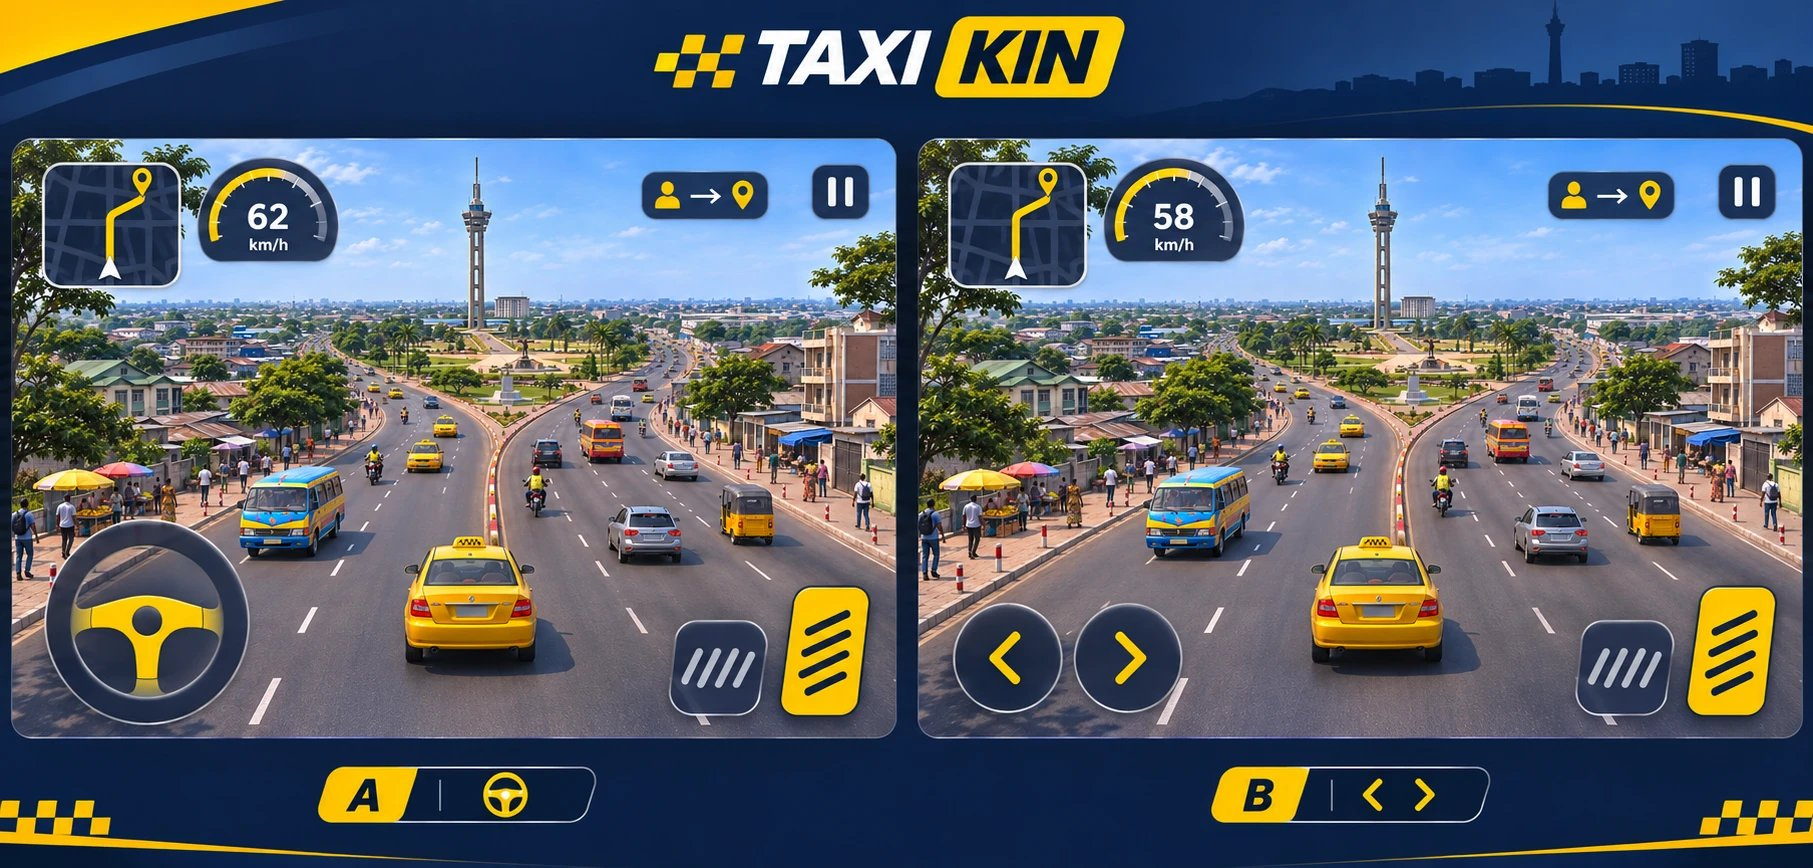
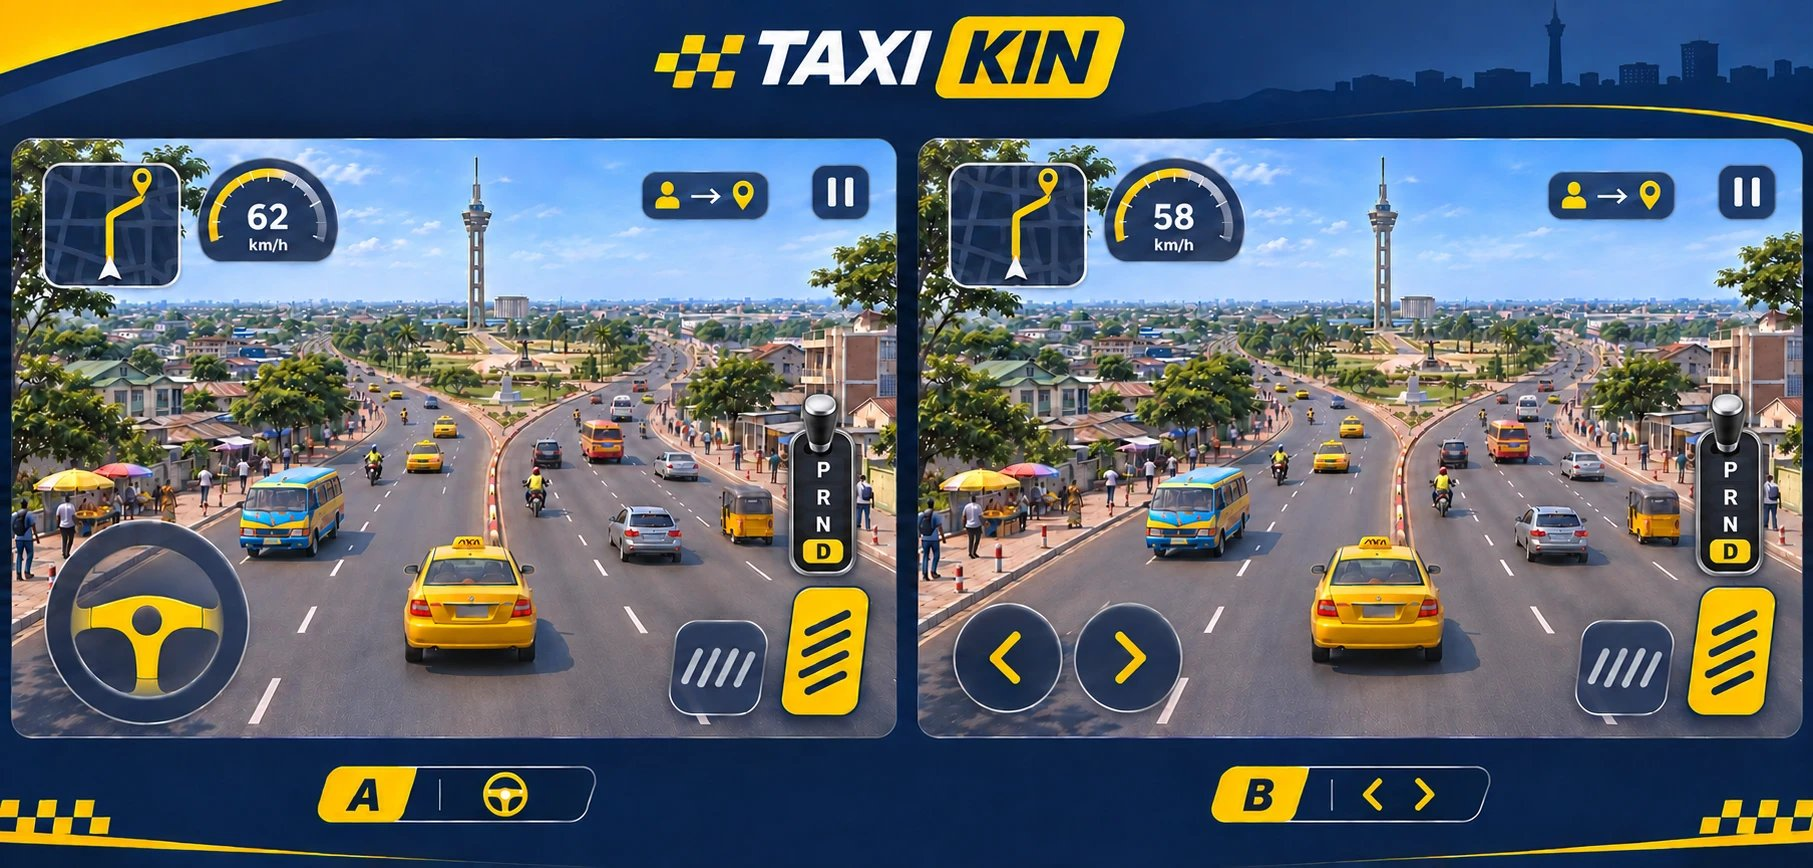
Levier de vitesses vertical P R N D avec vitesse engagée en surbrillance, mode Parking (freinage maximal), maquette d'interface mise à jour
Claude-Session: https://claude.ai/code/session_01JuujBrtNH3b235hzuEdNg4

diff --git a/UnityProject/Assets/Editor/TaxiKinUIBuilder.cs b/UnityProject/Assets/Editor/TaxiKinUIBuilder.cs
@@ -118,16 +118,21 @@ namespace TaxiKin.EditorTools
             layout.Register(ControlId.Camera, (RectTransform)cam.transform);
             On(cam, actions.NextCamera);
 
-            // Boîte de vitesses D / N / R (trois boutons dans un conteneur)
-            var gearGo = new GameObject("Vitesses", typeof(RectTransform));
+            // Levier de vitesses vertical P / R / N / D (comme la maquette), à gauche du frein
+            var gearGo = new GameObject("Vitesses", typeof(RectTransform), typeof(GearIndicator));
             gearGo.transform.SetParent(root, false);
-            Place((RectTransform)gearGo.transform, BR, new Vector2(-40f, 420f), new Vector2(220f, 80f), BR);
-            string[] g = { "D", "N", "R" };
-            for (int i = 0; i < 3; i++)
+            Place((RectTransform)gearGo.transform, BR, new Vector2(-550f, 40f), new Vector2(100f, 300f), BR);
+            string[] g = { "D", "N", "R", "P" };                     // indice = valeur de GearPosition
+            float[] gy = { 0f, 75f, 150f, 225f };                    // D en bas, P en haut
+            var gearLabels = new Text[4];
+            for (int i = 0; i < 4; i++)
             {
-                var gb = Button(gearGo.transform, "Gear" + g[i], null, g[i], BL, new Vector2(i * 75f, 0f), new Vector2(70f, 80f), Btn);
+                var gb = Button(gearGo.transform, "Gear" + g[i], null, g[i], BL, new Vector2(0f, gy[i]), new Vector2(100f, 70f), new Color(0.1f, 0.12f, 0.2f, 0.85f));
                 UnityEventTools.AddIntPersistentListener(gb.onPressed, actions.SetGear, i);
+                gearLabels[i] = gb.GetComponentInChildren<Text>();
             }
+            TaxiKinSceneBuilder.Assign(gearGo.GetComponent<GearIndicator>(), "player", player);
+            TaxiKinSceneBuilder.AssignArray(gearGo.GetComponent<GearIndicator>(), "labels", gearLabels);
             layout.Register(ControlId.Gear, (RectTransform)gearGo.transform);
 
             // Passagers (Wewa : un bouton ; taxi : client ; bus : passagers, portes, arrêt)

diff --git a/UnityProject/Assets/Scripts/Vehicles/VehicleController.cs b/UnityProject/Assets/Scripts/Vehicles/VehicleController.cs
@@ -8,7 +8,7 @@ namespace TaxiKin.Vehicles
     public enum VehicleType { Wewa, Taxi, Bus207 }
 
     /// <summary>Boîte de vitesses : D = marche avant, N = neutre, R = marche arrière.</summary>
-    public enum GearPosition { D, N, R }
+    public enum GearPosition { D, N, R, P }   // P = parking : pas d'accélération, freinage maximal
 
     /// <summary>Caractéristiques d'un véhicule (modifiables dans l'Inspector).</summary>
     [Serializable]
@@ -145,7 +145,7 @@ namespace TaxiKin.Vehicles
             float maxMs = stats.maxSpeedKmh / 3.6f;
             // Route mouillée : adhérence 1,0 (sec) → 0,6 (pluie forte)
             float road = WeatherManager.Instance != null ? WeatherManager.Instance.RoadGrip : 1f;
-            bool driving = Gear != GearPosition.N && Throttle > 0f && Fuel > 0f;
+            bool driving = Gear != GearPosition.N && Gear != GearPosition.P && Throttle > 0f && Fuel > 0f;
 
             if (driving)
             {
@@ -157,7 +157,7 @@ namespace TaxiKin.Vehicles
                 forward = Mathf.MoveTowards(forward, 0f, 1.5f * dt);   // Roue libre
             }
 
-            float brakeAmount = HandBrake ? 1f : Brake;
+            float brakeAmount = (HandBrake || Gear == GearPosition.P) ? 1f : Brake;
             if (brakeAmount > 0f)
                 forward = Mathf.MoveTowards(forward, 0f, brakeAmount * stats.brakeForce * road * dt);     // freinage plus long
 

diff --git a/UnityProject/Assets/Scripts/UI/GearIndicator.cs b/UnityProject/Assets/Scripts/UI/GearIndicator.cs
@@ -1,0 +1,29 @@
+using UnityEngine;
+using UnityEngine.UI;
+using TaxiKin.Player;
+using TaxiKin.Vehicles;
+
+namespace TaxiKin.UI
+{
+    /// <summary>Met en évidence (jaune, plus grand) la vitesse engagée sur le levier P R N D.</summary>
+    public class GearIndicator : MonoBehaviour
+    {
+        [SerializeField] private PlayerController player;
+        [SerializeField] private Text[] labels;     // indexés par GearPosition : D, N, R, P
+
+        private static readonly Color Active = new Color(1f, 0.83f, 0f);
+
+        private void Update()
+        {
+            if (player == null || player.Vehicle == null || labels == null) return;
+            int gear = (int)player.Vehicle.Gear;
+            for (int i = 0; i < labels.Length; i++)
+            {
+                if (labels[i] == null) continue;
+                bool on = i == gear;
+                labels[i].color = on ? Active : Color.white;
+                labels[i].fontStyle = on ? FontStyle.Bold : FontStyle.Normal;
+            }
+        }
+    }
+}

diff --git a/UnityProject/Assets/Scripts/Player/ControlActions.cs b/UnityProject/Assets/Scripts/Player/ControlActions.cs
@@ -39,7 +39,7 @@ namespace TaxiKin.Player
         /// <summary>0 = D, 1 = N, 2 = R.</summary>
         public void SetGear(int gear)
         {
-            if (V != null) V.Gear = (GearPosition)Mathf.Clamp(gear, 0, 2);
+            if (V != null) V.Gear = (GearPosition)Mathf.Clamp(gear, 0, 3);
         }
 
         public void PickupPassengers()
